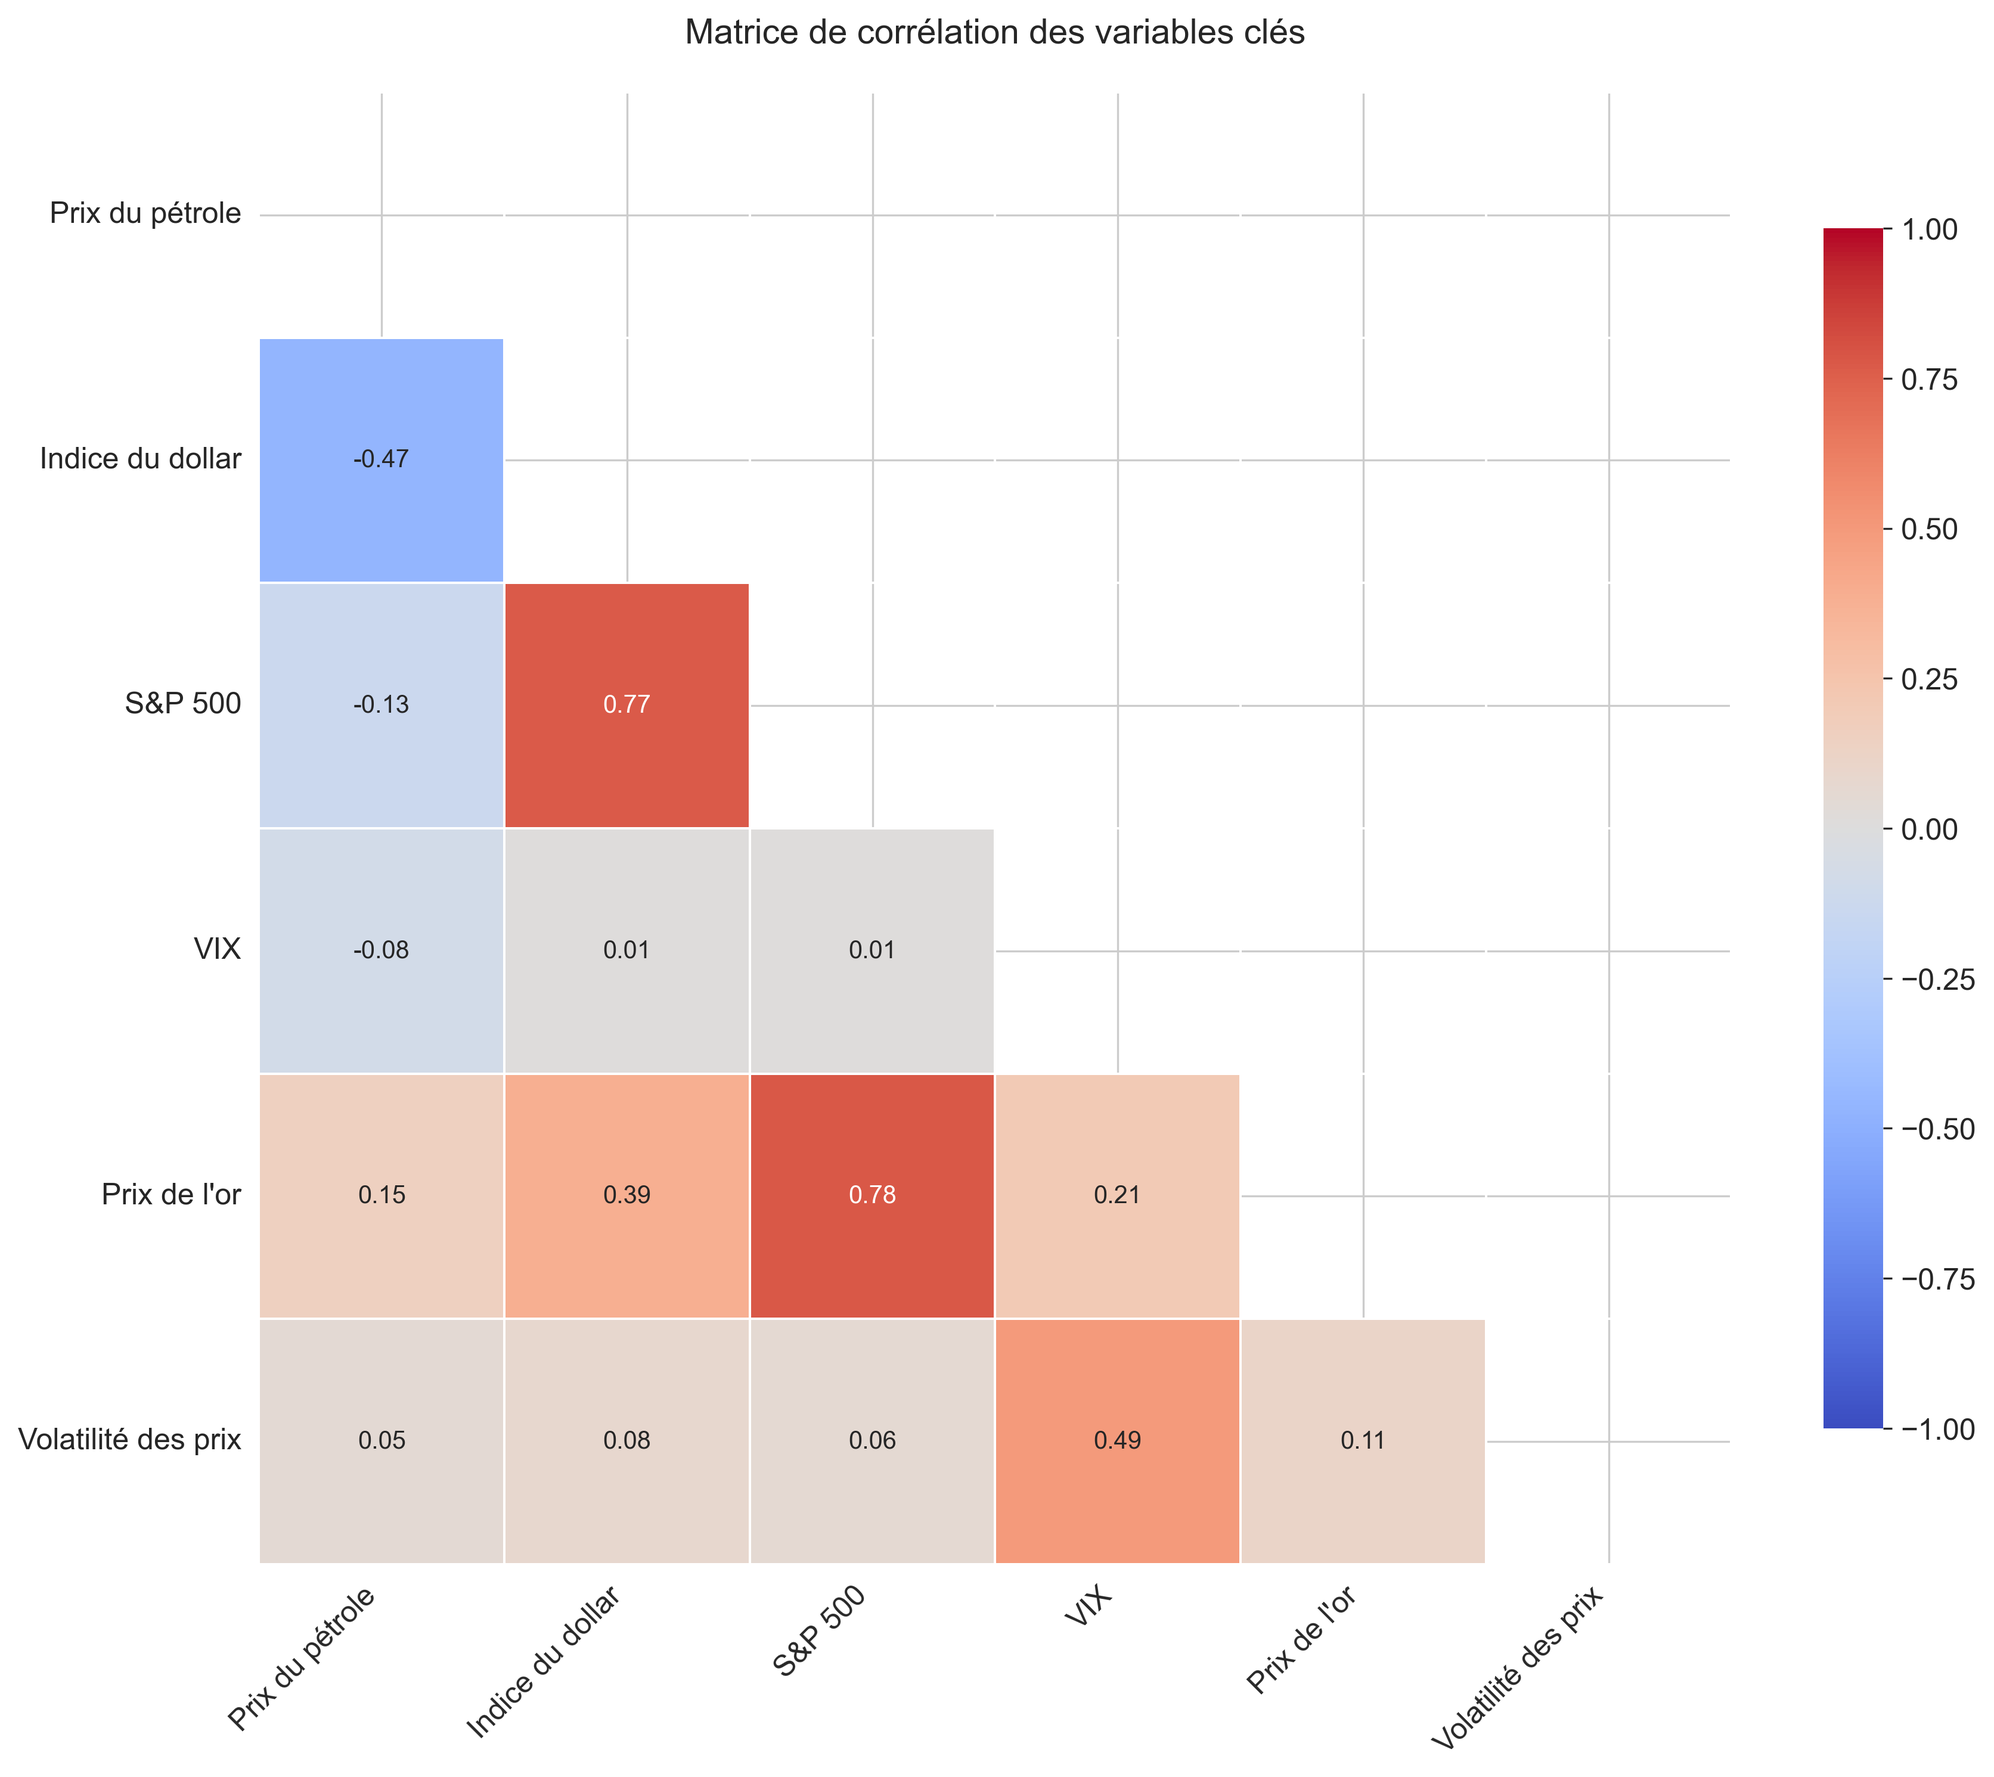
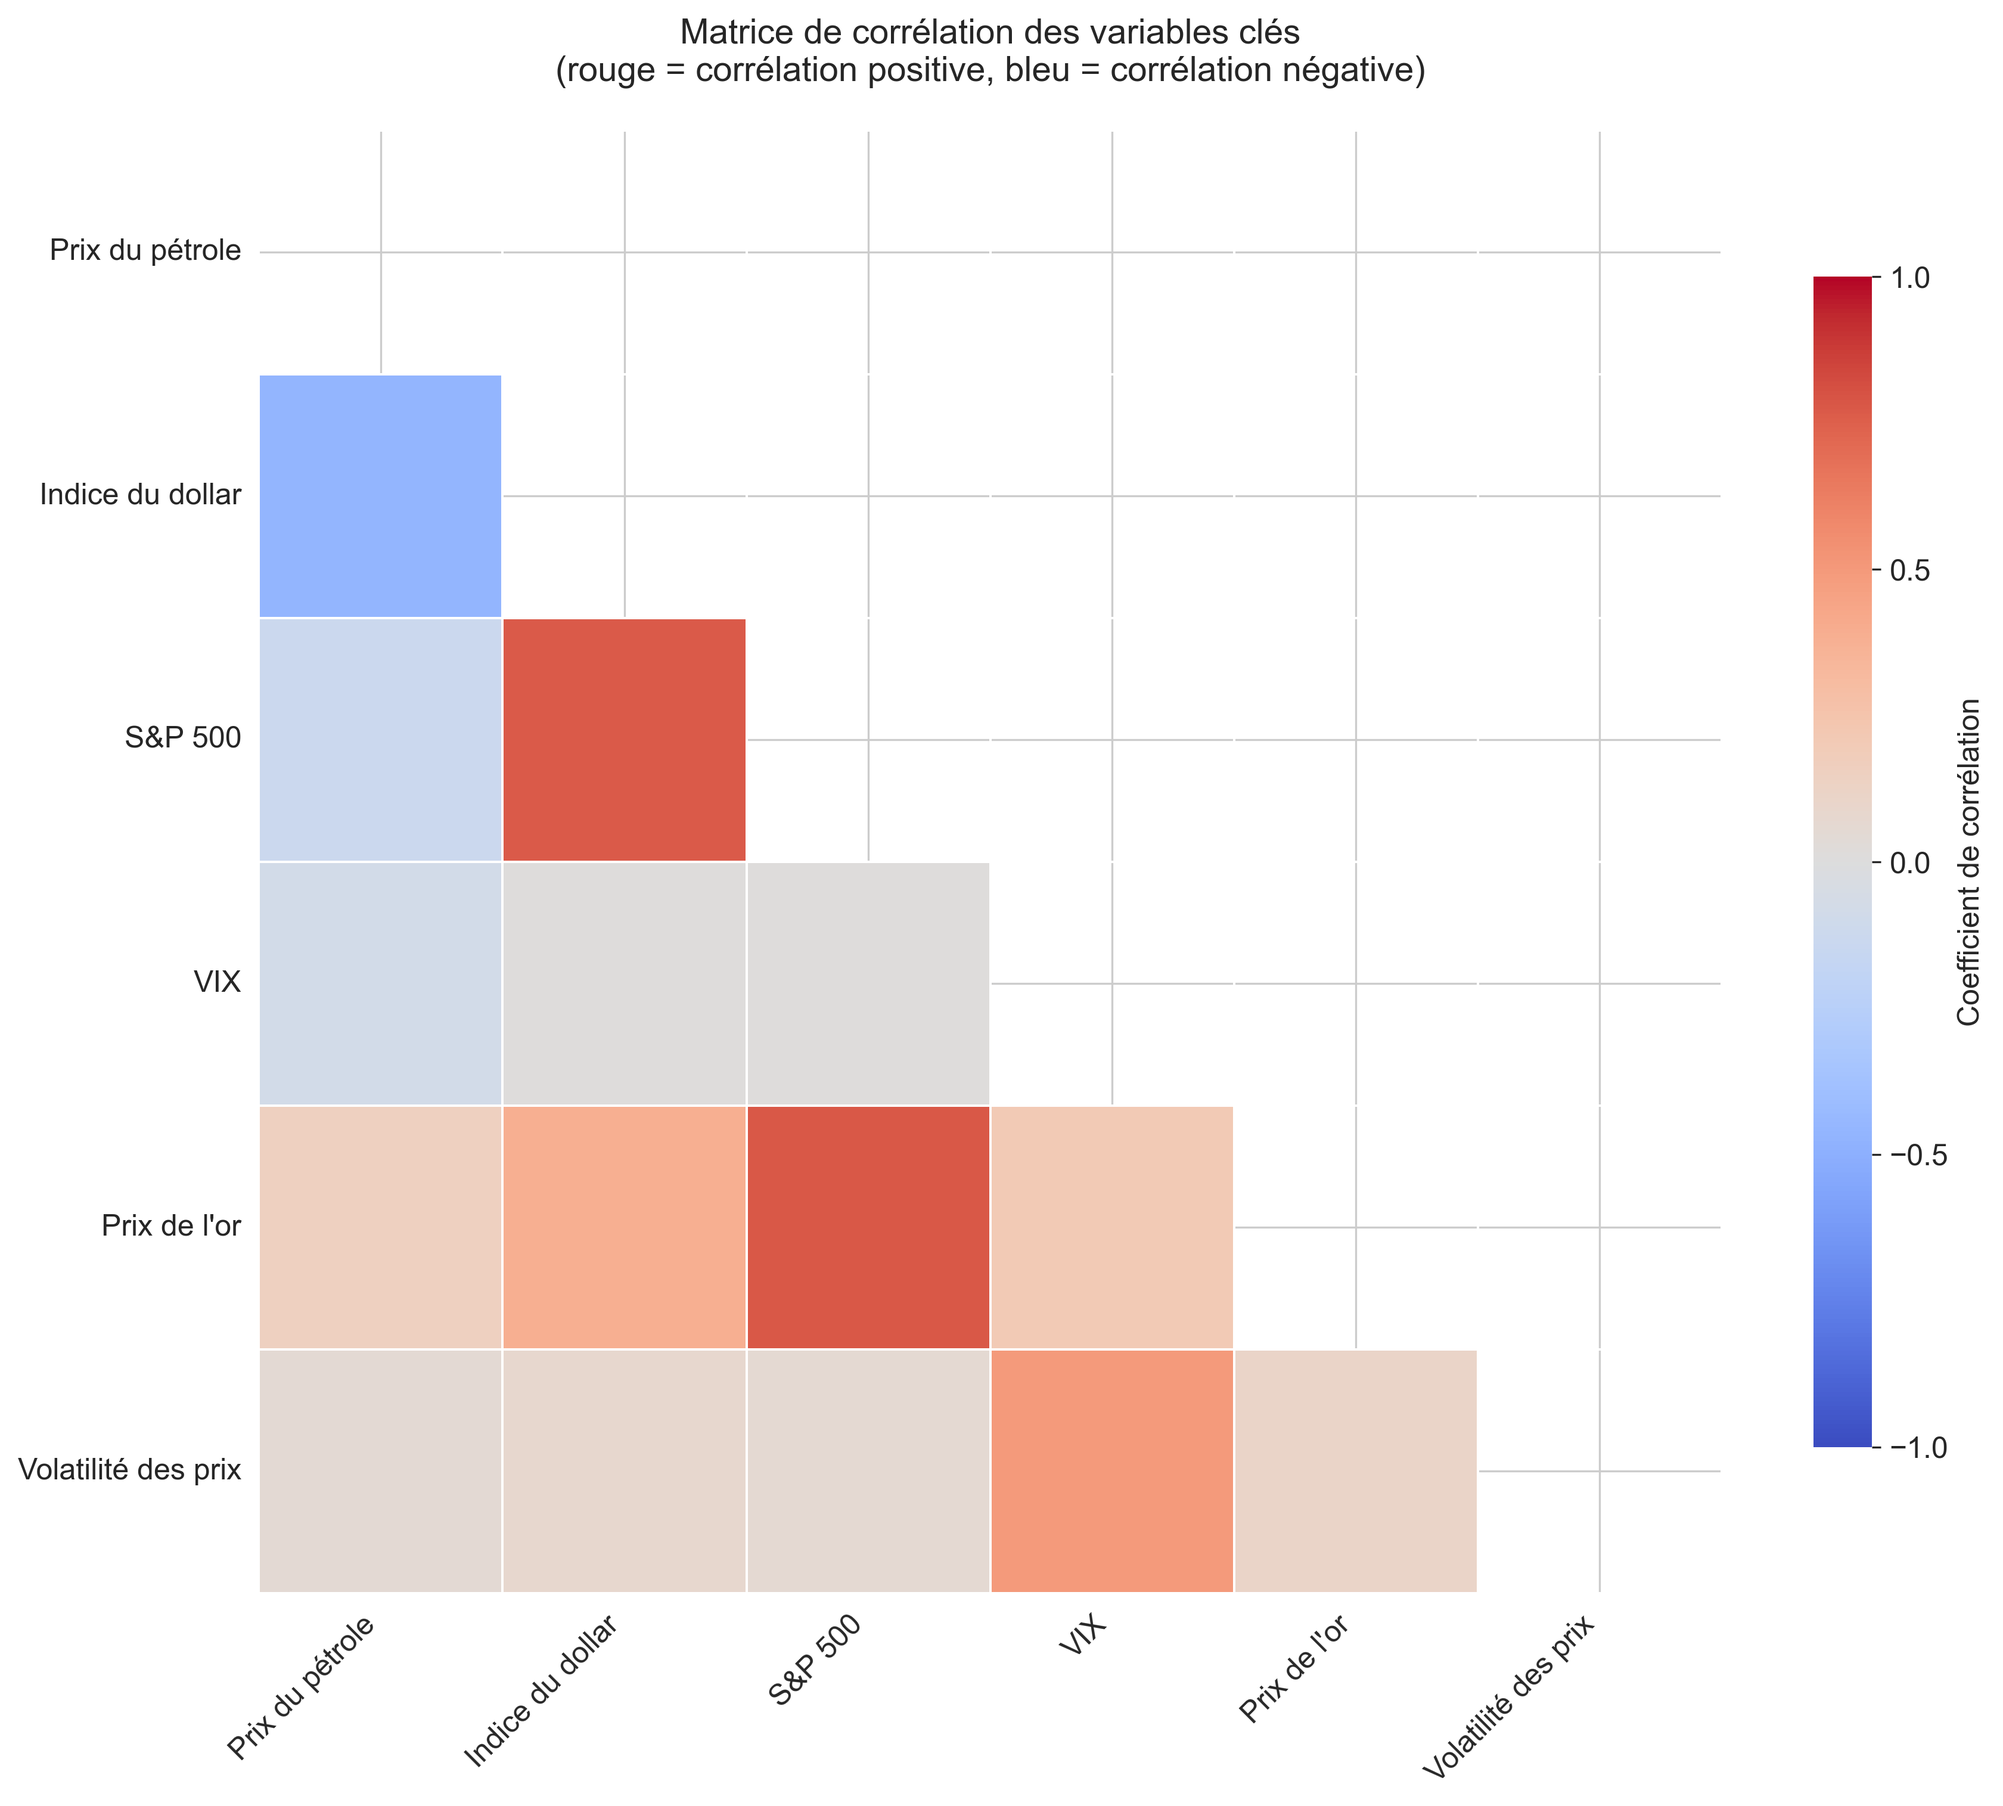
Simplification de la matrice de corrélation : suppression des annotations numériques

diff --git a/src/analysis/generate_visualisations.py b/src/analysis/generate_visualisations.py
@@ -107,6 +107,7 @@ class OilVisualisationGenerator:
     def plot_correlation_matrix(self, start_date: str = '2010-01-01', end_date: str = None) -> None:
         """
         Génère une matrice de corrélation entre les variables les plus pertinentes.
+        Utilise uniquement les couleurs pour représenter les corrélations.
         
         Args:
             start_date: Date de début au format 'YYYY-MM-DD'
@@ -130,21 +131,23 @@ class OilVisualisationGenerator:
         # Création de la figure avec une taille plus grande
         plt.figure(figsize=(12, 10))
         
-        # Création de la heatmap avec des annotations plus lisibles
+        # Création de la heatmap sans annotations numériques
         mask = np.triu(np.ones_like(corr_matrix, dtype=bool))  # Masque pour le triangle supérieur
         sns.heatmap(
             corr_matrix,
             mask=mask,
-            annot=True,
-            fmt='.2f',  # Format des annotations : 2 décimales
+            annot=False,  # Désactivation des annotations numériques
             cmap='coolwarm',
             vmin=-1,
             vmax=1,
             center=0,
             square=True,
             linewidths=.5,
-            cbar_kws={'shrink': .8},
-            annot_kws={'size': 10}
+            cbar_kws={
+                'shrink': .8,
+                'label': 'Coefficient de corrélation',
+                'ticks': [-1, -0.5, 0, 0.5, 1]
+            }
         )
         
         # Personnalisation des labels
@@ -157,6 +160,7 @@ class OilVisualisationGenerator:
             'price_volatility': 'Volatilité des prix'
         }
         
+        # Rotation des labels pour une meilleure lisibilité
         plt.xticks(
             np.arange(len(selected_columns)) + 0.5,
             [labels[col] for col in selected_columns],
@@ -169,8 +173,12 @@ class OilVisualisationGenerator:
             rotation=0
         )
         
-        # Ajout du titre et ajustement de la mise en page
-        plt.title('Matrice de corrélation des variables clés', pad=20, size=14)
+        # Ajout du titre et de la légende
+        plt.title('Matrice de corrélation des variables clés\n(rouge = corrélation positive, bleu = corrélation négative)', 
+                 pad=20, 
+                 size=14)
+        
+        # Ajustement de la mise en page
         plt.tight_layout()
         
         # Sauvegarde de la figure avec une meilleure résolution
